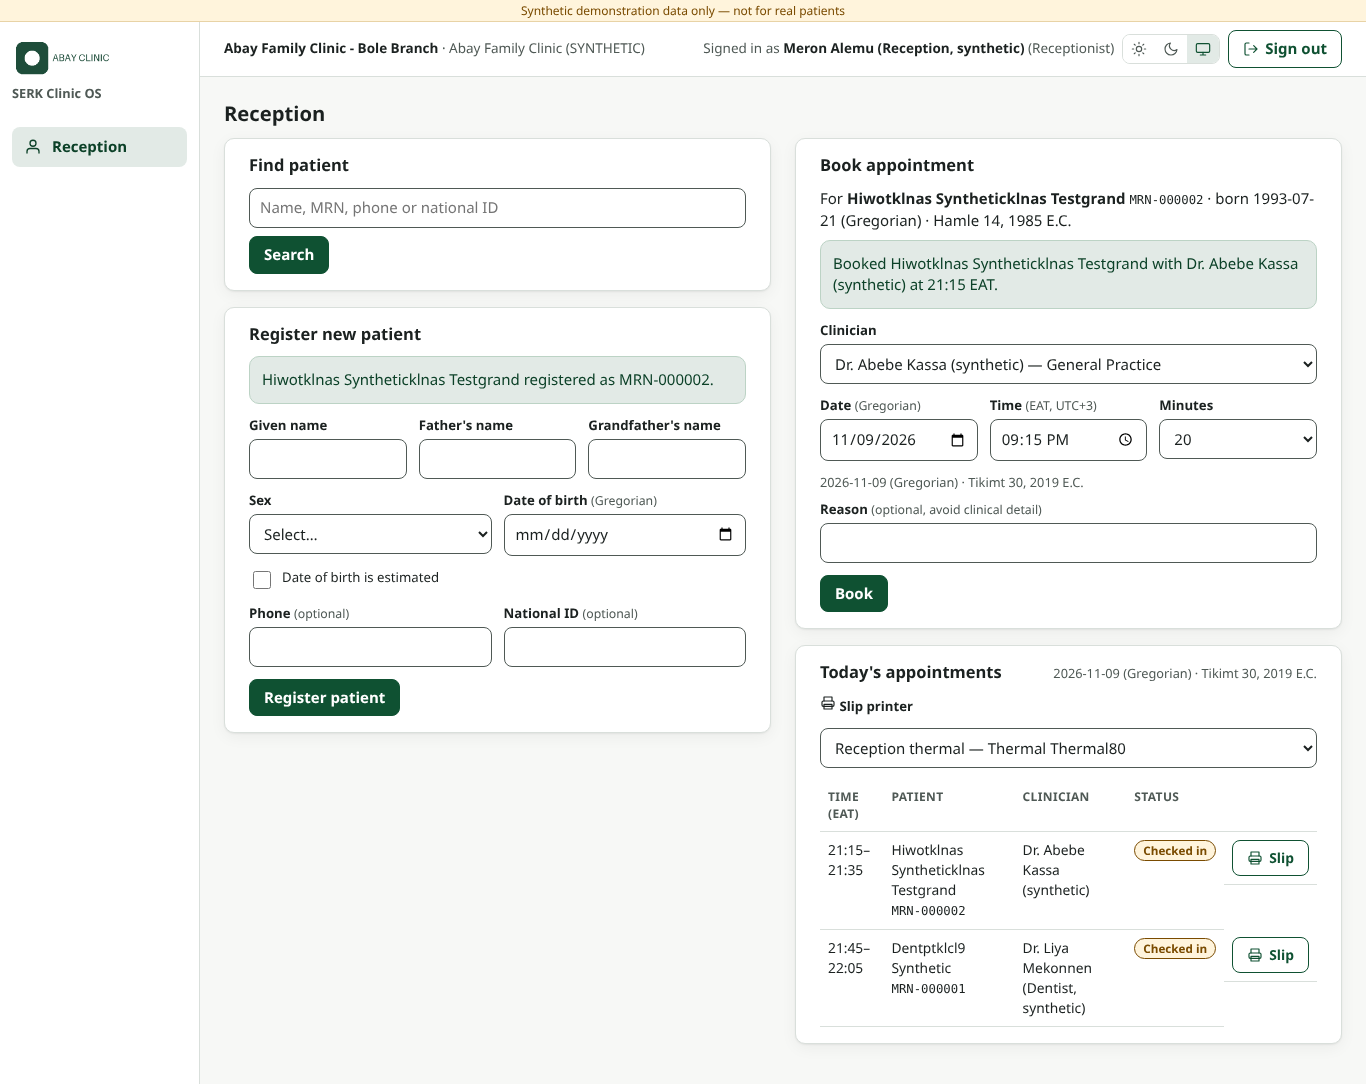
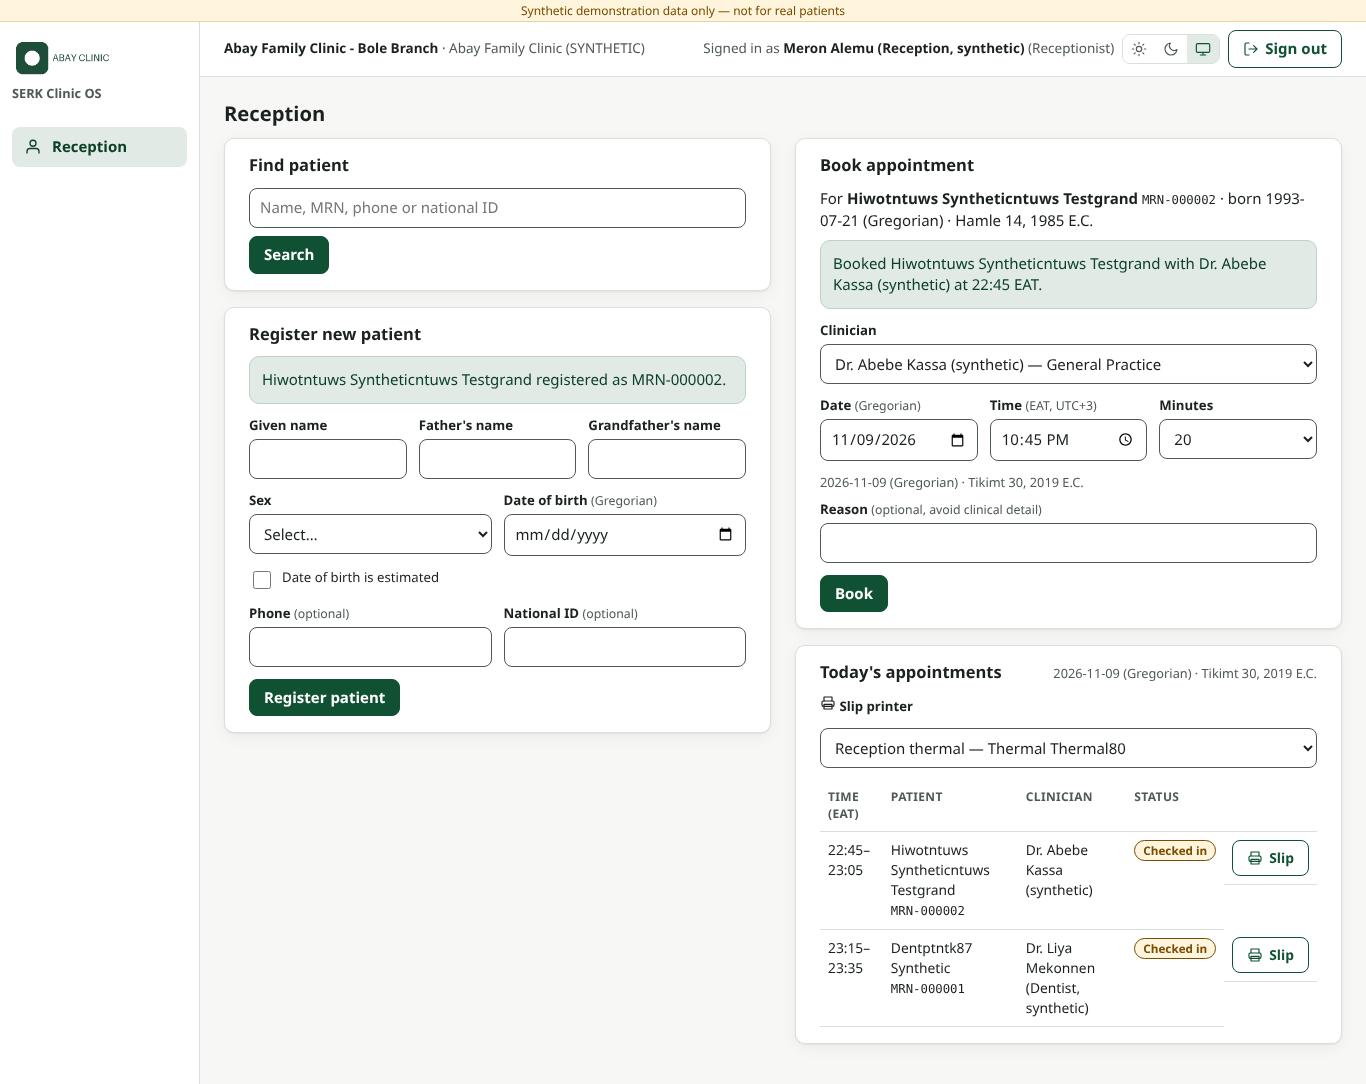
Fix upload panel race and make E2E rerunnable against a live demo
- Upload panel: inputs locked while uploading; only the uploaded file is cleared
  (a file chosen meanwhile is kept); success status message
- Friendly message for HTTP 429 (rate limited) instead of a bare status code
- E2E: book the first free slot (the app correctly refuses overlapping
  appointments), wait for uploads to finish, optional outbound proxy setting
  for running against a remote deployment

Claude-Session: https://claude.ai/code/session_0114GWRxjjMRXbMsQ9ASN1D1

diff --git a/src/web/src/pages/SettingsPage.tsx b/src/web/src/pages/SettingsPage.tsx
@@ -1,4 +1,4 @@
-import { useEffect, useState, type FormEvent } from "react";
+import { useRef, useEffect, useState, type FormEvent } from "react";
 import { api, uploadFile } from "../api/client";
 import { ErrorAlert, Field } from "../components/common";
 import { Icon } from "../components/icons";
@@ -151,15 +151,25 @@ export function AssetPanel({ kind, title, hint, asset, onUploaded, uploadUrl }: 
   const [file, setFile] = useState<File | null>(null);
   const [error, setError] = useState<unknown>(null);
   const [busy, setBusy] = useState(false);
+  const [done, setDone] = useState<string | null>(null);
+  const inputRef = useRef<HTMLInputElement>(null);
   const id = `upload-${kind}`;
   const submit = async (e: FormEvent) => {
     e.preventDefault();
     if (!file) return;
+    const uploading = file;
     setBusy(true);
     setError(null);
+    setDone(null);
     try {
-      await uploadFile(uploadUrl ?? `/api/v1/facility/branding/${kind}`, file);
-      setFile(null);
+      await uploadFile(uploadUrl ?? `/api/v1/facility/branding/${kind}`, uploading);
+      // Clear only the file that was uploaded (a newer choice made meanwhile is kept).
+      setFile((current) => {
+        if (current !== uploading) return current;
+        if (inputRef.current) inputRef.current.value = "";
+        return null;
+      });
+      setDone(`${title} updated.`);
       onUploaded();
     } catch (err) {
       setError(err);
@@ -180,10 +190,11 @@ export function AssetPanel({ kind, title, hint, asset, onUploaded, uploadUrl }: 
         ) : <span className="muted">None uploaded.</span>}
       </div>
       <ErrorAlert error={error} />
+      {done && <p className="alert alert-info" role="status">{done}</p>}
       <form onSubmit={submit} className="btn-row">
         <label htmlFor={id} className="sr-only">Choose {title.toLowerCase()} image</label>
-        <input id={id} type="file" accept="image/png,image/jpeg" onChange={(e) => setFile(e.target.files?.[0] ?? null)} />
-        <button className="btn btn-primary" type="submit" disabled={!file || busy}><Icon name="upload" /> Upload {title.toLowerCase()}</button>
+        <input ref={inputRef} id={id} type="file" accept="image/png,image/jpeg" disabled={busy} onChange={(e) => { setFile(e.target.files?.[0] ?? null); setDone(null); }} />
+        <button className="btn btn-primary" type="submit" disabled={!file || busy}><Icon name="upload" /> {busy ? "Uploading…" : `Upload ${title.toLowerCase()}`}</button>
       </form>
       <p className="status-line">PNG (24/32-bit) or JPEG, 16–4096 px, max 512 KB. Files are checked for hidden content; uploads replace the previous image but never alter documents already issued.</p>
     </section>

diff --git a/src/web/e2e/management.spec.ts b/src/web/e2e/management.spec.ts
@@ -22,9 +22,11 @@ test.describe.serial("Management: branding, colour, printers, analytics", () => 
 
     await page.getByLabel("Choose clinic logo image").setInputFiles("e2e/fixtures/logo.png");
     await page.getByRole("button", { name: "Upload clinic logo" }).click();
+    await expect(page.getByRole("status").filter({ hasText: "Clinic logo updated." })).toBeVisible(); // wait for the upload itself
     await expect(page.getByRole("img", { name: "Current clinic logo" })).toBeVisible();
     await page.getByLabel("Choose official stamp image").setInputFiles("e2e/fixtures/stamp.png");
     await page.getByRole("button", { name: "Upload official stamp" }).click();
+    await expect(page.getByRole("status").filter({ hasText: "Official stamp updated." })).toBeVisible(); // wait for the upload itself
     await expect(page.getByRole("img", { name: "Current official stamp" })).toBeVisible();
 
     // A non-image renamed .png is rejected with a clear message.
@@ -99,6 +101,7 @@ test.describe.serial("Management: branding, colour, printers, analytics", () => 
     await page.getByRole("button", { name: "My signature" }).click();
     await page.getByLabel("Choose signature image image").setInputFiles("e2e/fixtures/signature.jpg");
     await page.getByRole("button", { name: "Upload signature image" }).click();
+    await expect(page.getByRole("status").filter({ hasText: "Signature image updated." })).toBeVisible();
     await expect(page.getByRole("img", { name: "Current signature image" })).toBeVisible();
     await expectNoSeriousA11yViolations(page, "signature");
   });

diff --git a/src/web/e2e/helpers.ts b/src/web/e2e/helpers.ts
@@ -28,3 +28,23 @@ export function eatTimeSoon(minutesAhead: number): { date: string; time: string 
   const iso = t.toISOString();
   return { date: iso.slice(0, 10), time: iso.slice(11, 16) };
 }
+
+/**
+ * Books the first free slot for a clinician, starting `minutesAhead` from now and stepping 15 minutes when the clinician is
+ * already booked (the app correctly refuses overlapping appointments). Keeps the suite re-runnable against a long-lived
+ * deployment whose database already contains earlier runs' appointments.
+ */
+export async function bookFirstFreeSlot(page: Page, clinicianLabel: string, minutesAhead: number): Promise<{ date: string; time: string }> {
+  await page.getByLabel("Clinician").selectOption({ label: clinicianLabel });
+  for (let i = 0; i < 24; i++) {
+    const slot = eatTimeSoon(minutesAhead + i * 15);
+    await page.getByLabel("Date (Gregorian)", { exact: true }).fill(slot.date);
+    await page.getByLabel("Time (EAT, UTC+3)").fill(slot.time);
+    const response = page.waitForResponse((r) => r.request().method() === "POST" && new URL(r.url()).pathname === "/api/v1/appointments");
+    await page.getByRole("button", { name: "Book", exact: true }).click();
+    const status = (await response).status();
+    if (status === 201 || status === 200) return slot;
+    expect(status, "only a scheduling conflict may cause a retry").toBe(409);
+  }
+  throw new Error("No free slot found for " + clinicianLabel);
+}

diff --git a/src/web/e2e/dental.spec.ts b/src/web/e2e/dental.spec.ts
@@ -1,5 +1,5 @@
 import { expect, test } from "@playwright/test";
-import { eatTimeSoon, expectNoSeriousA11yViolations, login, SHOTS } from "./helpers";
+import { bookFirstFreeSlot, expectNoSeriousA11yViolations, login, SHOTS } from "./helpers";
 
 const suffix = Date.now().toString(36).slice(-5);
 const given = `Dentpt${suffix}`;
@@ -17,11 +17,7 @@ test("dentist charts a surface finding by keyboard with wrong-tooth confirmation
   await r.getByLabel("Date of birth (Gregorian)").fill("1985-01-15");
   await r.getByRole("button", { name: "Register patient" }).click();
   await expect(r.getByRole("status").filter({ hasText: "registered as MRN-" })).toBeVisible();
-  const slot = eatTimeSoon(40);
-  await r.getByLabel("Clinician").selectOption({ label: "Dr. Liya Mekonnen (Dentist, synthetic) — Dentistry" });
-  await r.getByLabel("Date (Gregorian)", { exact: true }).fill(slot.date);
-  await r.getByLabel("Time (EAT, UTC+3)").fill(slot.time);
-  await r.getByRole("button", { name: "Book", exact: true }).click();
+  await bookFirstFreeSlot(r, "Dr. Liya Mekonnen (Dentist, synthetic) — Dentistry", 40);
   const row = r.getByRole("row").filter({ hasText: given });
   await row.getByRole("button", { name: /Check in/ }).click();
   await r.getByLabel(/I confirmed the patient's name/).check();

diff --git a/src/web/e2e/vertical-slice.spec.ts b/src/web/e2e/vertical-slice.spec.ts
@@ -1,5 +1,5 @@
 import { expect, test } from "@playwright/test";
-import { eatTimeSoon, expectNoSeriousA11yViolations, login, SHOTS } from "./helpers";
+import { bookFirstFreeSlot, expectNoSeriousA11yViolations, login, SHOTS } from "./helpers";
 
 // Synthetic, unique patient per run.
 const suffix = Date.now().toString(36).slice(-5);
@@ -22,11 +22,7 @@ test.describe.serial("Vertical slice: login → registration → appointment →
     await page.getByRole("button", { name: "Register patient" }).click();
     await expect(page.getByRole("status").filter({ hasText: "registered as MRN-" })).toBeVisible();
 
-    const slot = eatTimeSoon(10);
-    await page.getByLabel("Clinician").selectOption({ label: "Dr. Abebe Kassa (synthetic) — General Practice" });
-    await page.getByLabel("Date (Gregorian)", { exact: true }).fill(slot.date);
-    await page.getByLabel("Time (EAT, UTC+3)").fill(slot.time);
-    await page.getByRole("button", { name: "Book", exact: true }).click();
+    await bookFirstFreeSlot(page, "Dr. Abebe Kassa (synthetic) — General Practice", 10);
     await expect(page.getByText(/Booked .* with Dr. Abebe/)).toBeVisible();
 
     const row = page.getByRole("row").filter({ hasText: given });

diff --git a/src/web/playwright.config.ts b/src/web/playwright.config.ts
@@ -1,5 +1,12 @@
 import { defineConfig } from "@playwright/test";
 
+// Optional outbound proxy for running the suite against a remote deployment from a proxied network (SERK_E2E_PROXY=URL).
+// Applies to both the browser and Playwright's API request context.
+const proxyUrl = process.env.SERK_E2E_PROXY ? new URL(process.env.SERK_E2E_PROXY) : undefined;
+const proxy = proxyUrl
+  ? { server: `${proxyUrl.protocol}//${proxyUrl.host}`, username: decodeURIComponent(proxyUrl.username) || undefined, password: decodeURIComponent(proxyUrl.password) || undefined }
+  : undefined;
+
 export default defineConfig({
   testDir: "./e2e",
   timeout: 60_000,
@@ -11,6 +18,7 @@ export default defineConfig({
     viewport: { width: 1366, height: 768 },
     deviceScaleFactor: 1,
     trace: "off",
+    ...(proxy ? { proxy } : {}),
   },
   outputDir: "../../artifacts/e2e-output",
 });

diff --git a/src/web/src/api/client.ts b/src/web/src/api/client.ts
@@ -71,7 +71,11 @@ function isDuplicateReview(json: unknown): boolean {
 
 function toError(status: number, json: unknown): ApiError {
   const p = (typeof json === "object" && json !== null ? json : {}) as { code?: string; detail?: string; title?: string; errors?: Record<string, string[]> };
-  const message = p.detail ?? p.title ?? (status === 401 ? "Your session has ended. Please sign in again." : `Request failed (${status}).`);
+  const fallback =
+    status === 401 ? "Your session has ended. Please sign in again."
+    : status === 429 ? "Too many attempts in a short time. Please wait a minute and try again."
+    : `Request failed (${status}).`;
+  const message = p.detail ?? p.title ?? fallback;
   return new ApiError(status, p.code, message, json, p.errors);
 }
 
